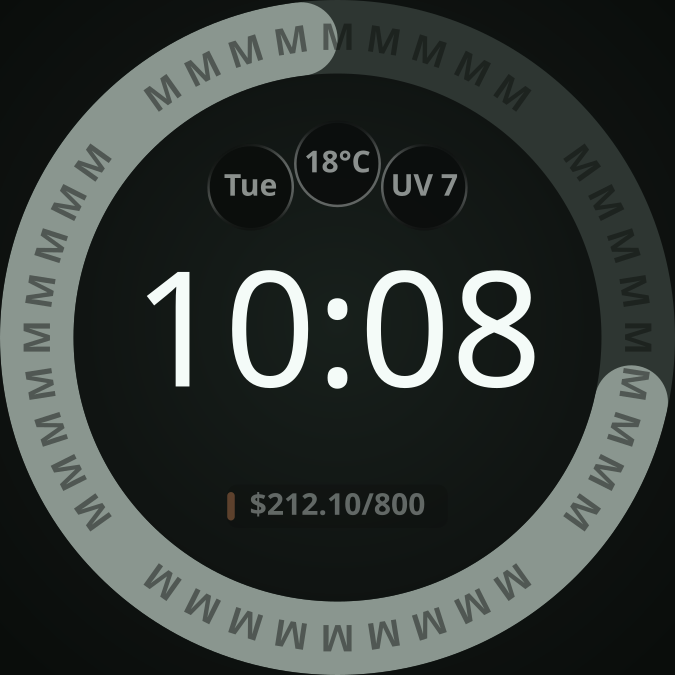
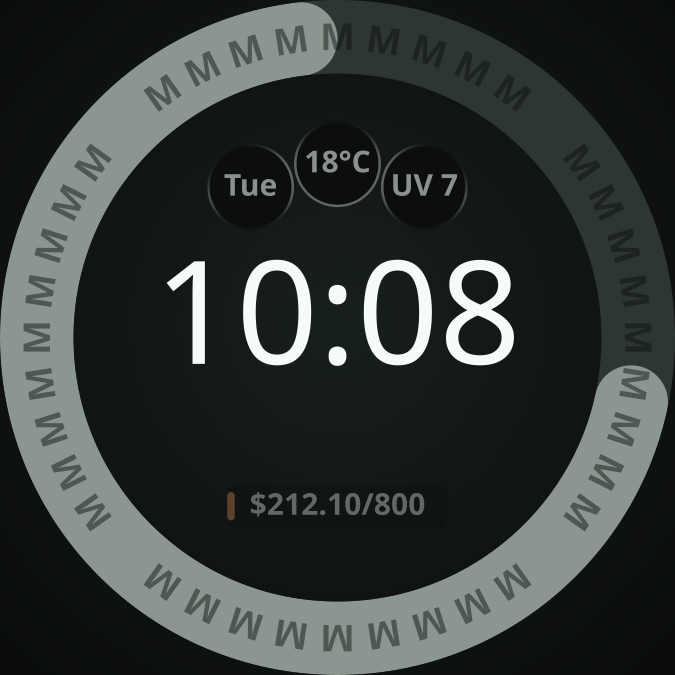
fix(watchface): align ambient clock with active digits

Changed region(s): [[0.3422, 0.3733, 0.8089, 0.5911], [0.2178, 0.3733, 0.3111, 0.5911]]

diff --git a/tools/check-watchface-structure.py b/tools/check-watchface-structure.py
@@ -92,12 +92,21 @@ def check_composition_scale(root):
                 if math.hypot((px - 225) * COMPOSITION_SCALE, (py - 225) * COMPOSITION_SCALE) >= 225:
                     errors.append(f"cell {slot_id}: effective bounds exceed the circular viewport")
     times = clock.findall("TimeText")
-    if len(times) != 2 or [(node.get("y"), node.get("height"), node.find("Font").get("size"))
-                           for node in times] != [("166", "90", "86"), ("175", "90", "96")]:
-        errors.append("whole clocks must retain their reference sizes and placements beneath one scale")
-    if any(node.get("format") != "hh:mm" or node.get("hourFormat") != "SYNC_TO_DEVICE"
-           or node.find("Font").get("family") != "SYNC_TO_DEVICE" for node in times):
-        errors.append("whole-clock formatting and device font identity must stay synchronized")
+    if [node.tag for node in element_children(clock)] != ["TimeText", "TimeText"]:
+        errors.append("the scaled DigitalClock must contain exactly two whole clocks")
+    for node, (mode, weight, alpha, ambient_alpha) in zip(times, (
+            ("active", "BOLD", "255", "0"), ("ambient", "THIN", "0", "255"))):
+        font = node.find("Font")
+        if (node.attrib != {"x": "0", "y": "166", "width": "450", "height": "90",
+                            "alpha": alpha, "align": "CENTER", "format": "hh:mm",
+                            "hourFormat": "SYNC_TO_DEVICE"}
+                or [child.tag for child in element_children(node)] != ["Variant", "Font"]
+                or [variant.attrib for variant in node.findall("Variant")] !=
+                [{"mode": "AMBIENT", "target": "alpha", "value": ambient_alpha}]
+                or font is None or len(font) != 0
+                or font.attrib != {"family": "SYNC_TO_DEVICE", "size": "86", "weight": weight,
+                                   "slant": "NORMAL", "color": "#fff4fbf8"}):
+            errors.append(f"whole {mode} clock must retain its exact profile, formatting and mode swap beneath one scale")
     images = mark.findall("PartImage")
     expected = [("193", "141", "64", "95"), ("198", "146", "54", "0")]
     if (len(images) != 2 or [(node.get("x"), node.get("y"), node.get("width"), node.get("alpha"))

diff --git a/docs/product/WATCH_RING_DESIGN.md b/docs/product/WATCH_RING_DESIGN.md
@@ -72,7 +72,9 @@ new-artifact native acceptance Pending); temperature-choice revision **2026-11-0
 (one face-local Auto/Celsius/Fahrenheit editor
 choice for built-in weather only, default Auto; current-candidate native acceptance Pending);
 active-clock translation **2026-11-01** (Owner-approved 10-unit rise of the whole active clock;
-ambient unchanged; new-runtime native/public acceptance Pending);
+ambient unchanged in that revision; new-runtime native/public acceptance Pending);
+ambient-clock alignment **2026-11-03** (one global 86 Thin candidate at the active clock's
+reference placement; optical/native/public acceptance Pending);
 short-positive endpoint revision **2026-11-01** (compressed elliptical caps in a local
 WFF2 mask; source/review construction only, native acceptance Pending)
 — locked visual target for
@@ -85,9 +87,10 @@ The operative effective layout follows the
 Positive paired MAIN coverage follows the
 [bounded contour correction](#revision-2026-11-02--bounded-paired-main-coverage).
 Earlier geometry below remains reference geometry beneath its common carrier, or dated
-historical evidence for the bytes measured then. The reference layout is the
-[approved active-clock translation](#revision-2026-11-01--approved-active-clock-translation), retaining the
-[2026-10-27 ambient and other composition contracts](#revision-2026-10-27--upward-digits-and-fixed-reference-bottoms) and the
+historical evidence for the bytes measured then. The reference clocks follow the
+[ambient-clock alignment](#revision-2026-11-03--ambient-clock-alignment), retaining the
+[approved active-clock translation](#revision-2026-11-01--approved-active-clock-translation), the
+[2026-10-27 non-clock composition contracts](#revision-2026-10-27--upward-digits-and-fixed-reference-bottoms) and the
 [outward-preserving cell contract](#revision-2026-10-25--preserved-outward-fade-and-50-unit-cells).
 Band widths follow the [N1-width revision](#revision-2026-10-30--n1-width-44), retaining the
 [adaptive admission contract](#revision-2026-10-28--adaptive-bands-from-resolved-count).
@@ -101,6 +104,46 @@ Canonical review generator: `tools/render-watch-ring-designs.mjs`
 Canonical face generator: `tools/render-watchface.mjs` — it writes the shipped `watchface.xml`
 and the ring-type drawables beside it.  
 Canonical preview: `apps/wear_android/design/preview-3-plan-credits.png` (and sibling variants).
+
+## Revision 2026-11-03 — ambient-clock alignment
+
+Use one global ambient candidate with the active clock's reference size and placement,
+removing the ambient-only enlargement and downward displacement. Active remains exact.
+Both clocks stay beneath the existing single **225/202** scale about **(225,225)** on the
+unchanged **450×450** canvas.
+
+| Clock | Runtime `TimeText` | Review SVG |
+| --- | --- | --- |
+| Active, unchanged | **x=0, y=166, width=450, height=90**, **86 Bold**, `CENTER` | Font **86**, weight **700**, baseline **240.78125**, rendered **240.8** |
+| Ambient | **x=0, y=166, width=450, height=90**, **86 Thin**, `CENTER` | Font **86**, weight **100**, baseline **240.78125**, rendered **240.8** |
+
+`CLOCK` in `tools/render-watchface.mjs` owns the runtime profile; `CLOCK` in
+`tools/render-watch-ring-designs.mjs` owns the illustrative host baseline.
+`check_composition_scale` in `tools/check-watchface-structure.py` guards both emitted
+profiles, including their weights, whole centered `hh:mm`, device-synchronized family/hour
+format, original color and inverse AMBIENT alpha swaps. Natural glyph advances and colon
+spacing remain device-defined: no per-time or per-count offsets, split or stretched glyphs,
+font replacement or new alpha. Equal boxes and host baselines do not establish optical alignment.
+
+This supersedes the ambient **175/90/96 Thin** profile and **254.296875** review baseline
+retained by the 2026-11-01 active-only translation. The 2026-10-27 fixed-bottom calibration,
+ink bounds and gap/fit measurements remain historical evidence for their original artifacts;
+they do not measure this candidate. All cells, original logo pixels/boxes/alpha, legends,
+taps, transport and A1 seam/cap/mask/zero/full/palette/data/slot contracts remain unchanged.
+Generate canonical runtime resources before review SVG/mirror/PNG exports; preserve active
+rendered content and unrelated resources, excluding metadata-only churn. Clock-only previews
+retain their isolated local outputs and existing offset semantics.
+
+**Optical, native and public acceptance: Pending.** After whole Runner DONE, owning CLI exit,
+scoped retirement and fresh separate idle, Root owns the five HOST gates and separately
+admitted device work. Join Legacy Source/resource/build/installed/active identities and
+effective inputs; retain matched whole-clock and whole-face INTERACTIVE and renderer-proven
+AMBIENT originals for bounded wide/narrow and 12/24-hour cases. Measure visible height,
+position, centering and clearances with actual raster limits, without a universal tolerance.
+MUTE/Doze does not prove AMBIENT; original MUTE remains a valid restoration target. Prove
+restoration of touched clock/timezone/format/effective DND and derived surfaces, preserve
+newer Live and incident evidence, and retain physical STOP and protected Square/Main/Test/Push.
+Open A1/native/public acceptance is not closed by this candidate or its review art.
 
 ## Revision 2026-11-02 — bounded paired MAIN coverage
 
@@ -1038,12 +1081,16 @@ remains unverified.
 
 ## Revision 2026-11-01 — approved active-clock translation
 
+**Active contract retained; historical ambient profile superseded 2026-11-03** by the
+[ambient-clock alignment](#revision-2026-11-03--ambient-clock-alignment). Ambient statements
+and measurements in this dated revision describe its original bytes.
+
 The Owner-approved **450×450, 10:08 active portrait** translates the whole active clock
 **10.0 design units upward**. Runtime keeps real device-synchronized time; 10:08 is review
 data. Preserve **86 Bold**, `height=90`, complete `hh:mm`, horizontal alignment, natural
 glyph/colon spacing and hour-format behavior. No other element moves or changes appearance.
 
-| Clock | Current runtime `TimeText` | Review SVG baseline |
+| Clock | 2026-11-01 runtime `TimeText` | Review SVG baseline |
 | --- | --- | --- |
 | Active | **x=0, y=166, width=450, height=90**, **86 Bold**, `CENTER` | **240.78125**, rendered **240.8** |
 | Ambient, unchanged | **x=0, y=175, width=450, height=90**, **96 Thin**, `CENTER` | **254.296875**, rendered **254.3** |
@@ -1068,9 +1115,10 @@ as this runtime requires a fresh native capture and owning index review.
 
 ## Revision 2026-10-27 — upward digits and fixed reference bottoms
 
-**Historical active placement, superseded 2026-11-01.** This revision records its original
-target and native evidence. Its ambient and non-clock contracts remain unchanged; the active
-clock now follows the [approved translation](#revision-2026-11-01--approved-active-clock-translation).
+**Historical clock placements, superseded 2026-11-01 / 2026-11-03.** This revision records its
+original target and native evidence. Non-clock contracts remain unchanged; active follows the
+[approved translation](#revision-2026-11-01--approved-active-clock-translation), and ambient follows the
+[ambient-clock alignment](#revision-2026-11-03--ambient-clock-alignment).
 
 The Owner-approved composition keeps the **450×450** canvas and centre **(225,225)**.
 The reading order is **cells → logo → clock → legend**. Enlarge whole digits upward,
@@ -1290,8 +1338,8 @@ pair's, whose second value is the other pool's percent (see Split band).
 ## Typography
 
 **Noto Sans Bold** (SIL Open Font License 1.1 — free for any use, no field-of-use restrictions).
-Bold/700 for time and strip labels. Vertically center strip glyphs using font metrics (not a
-guessed baseline fraction).
+Bold/700 for active time and strip labels; Thin/100 for ambient time. Vertically center strip
+glyphs using font metrics (not a guessed baseline fraction).
 
 Runtime Wear/WFF may map to the closest platform sans until a bundled Noto Sans asset is wired.
 
@@ -1355,9 +1403,9 @@ theme `outlineVariant` at runtime).
 
 Rules:
 
-- **Time is the hero** — the approved active 86 Bold clock rises 10 units from the dated
-  2026-10-27 placement; 96 Thin ambient retains its calibrated placement. New-runtime native
-  acceptance remains Pending under the owning translation revision.
+- **Time is the hero** — active 86 Bold and ambient 86 Thin share the reference `y=166`,
+  `height=90` box under the common composition scale. Optical/native acceptance remains
+  Pending under the [ambient-clock alignment](#revision-2026-11-03--ambient-clock-alignment).
 - **Upper cells** — three customizable complication cells in the band the baseline reserved for
   a weather glance until **2026-10-09**. They retain a curved row, with the middle one higher
   than the outer two; the operative **2026-10-27** origins and 52-unit wells are listed above.
@@ -1534,7 +1582,7 @@ called this band the "upper aperture"; it is the same band.
 
 1. **Three cells of 52 units in a curved row, refined on 2026-10-27.** Each complete
    well/border/text/icon/slot moves together. The integer coordinates below must match
-   in the WFF and review generators. The whole clock follows the approved active translation:
+   in the WFF and review generators. Both whole clocks follow the current alignment revision:
 
    | Cell | Centre | Box origin, integer | Radius from face centre |
    |---|---|---|---:|
@@ -1544,13 +1592,13 @@ called this band the "upper aperture"; it is the same band.
 
    The derived clearances, against the clear aperture of **133.8** (the innermost band's
    outer edge at 154, less the 20.2 the band renders inward) and current `TimeText` boxes at
-   `y=166` active / `y=175` ambient:
+   `y=166` in both active and ambient, before the common composition scale:
 
    | | Value |
    |---|---:|
    | Left/right cell to inner band | **3.8577** |
    | Middle cell to inner band | **3.8000** |
-   | Lowest cell to the clock box | **5.00 active /14.00 ambient** (nominal box separation, not native glyph clearance) |
+   | Lowest cell to the clock box | **5.00 in both modes** (nominal box separation, not native glyph clearance) |
    | Between neighbouring cells | 1.851648 |
    | Middle cell above the outer two | 14.00 |
 
@@ -2858,14 +2906,17 @@ whatever is drawn.
 
 ## Ambient
 
-The current ambient whole clock uses integer `y=175, height=90` with **96 Thin**, calibrated
-on Round 384 to retain the **08:08 bottom of 254.296875** reference. The original logo is **54×54
+The current ambient whole clock uses integer `y=166, height=90` with **86 Thin**, matching
+the active reference box and size under the common composition scale. Review baseline is
+**240.78125**, rendered **240.8**. This is the
+[2026-11-03 candidate](#revision-2026-11-03--ambient-clock-alignment), not a native optical
+alignment result or a retained-bottom claim. The original logo is **54×54
 at (198,146)**, centre (225,173), alpha70; active uses **64×64 at (193,141)**, alpha95.
 Legend wells remain 132×26 with 120-unit 20/18/16 mixed-run labels and whole-row alpha90.
-The upward-digit revision records actual Round Thin calibration and twelve-case Round/Square
-clock/label fit, with populated defaults observed on Round. Quantitative composited-logo
-ink/opacity, arbitrary custom/extreme readings and physical fit remain Pending; historical
-ambient readings below apply only to their original artifacts.
+The upward-digit revision records historical Round Thin calibration and twelve-case
+Round/Square clock/label fit, with populated defaults observed on Round. Those results apply
+only to their original artifacts. Current native clock fit, quantitative composited-logo
+ink/opacity, arbitrary custom/extreme readings and physical fit remain Pending.
 
 Muted remaining arcs (when plan rings exist) and large centered time. Ring type dims with the
 band it is punched into (alpha 140, same as the arcs) — it is part of the ring, not chrome to
@@ -2978,8 +3029,9 @@ xdg-open apps/wear_android/design/preview-3-plan-credits.png
 
 The current maps contain 42 boards/42 PNGs and 39 WFF mirrors. The 14 adaptive additions
 come from `adaptiveVariants` in `tools/render-watch-ring-designs.mjs` and are included in
-both `variants` and `wffFiles`. All model the enlarged whole
-clock with the approved active baseline **240.78125** and unchanged ambient **254.296875**,
+both `variants` and `wffFiles`. All model the whole
+clock at font **86**, active weight **700** / ambient **100**, with the shared baseline
+**240.78125** (rendered **240.8**),
 52-unit cells and 132×26 wells with 20/18/16 labels.
 Ordinary boards stay mark-free; the shipped portrait alone overlays the active 64-square
 logo at (193,141), alpha95, read from generated XML.
